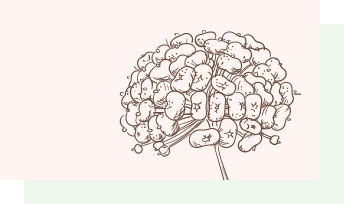
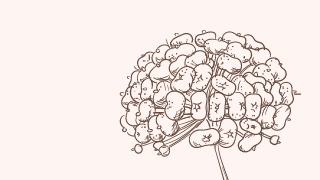
edits

Changed region(s): [[0.3438, 0.1389, 0.9375, 1.0]]

diff --git a/resources/assets/styles/components/composition.scss b/resources/assets/styles/components/composition.scss
@@ -1,7 +1,9 @@
 .composition {
+  overflow: hidden;
   padding-top: 100px;
   display: flex;
   justify-content: center;
+  padding-bottom: 20px;
   @media (max-width: 1199px) {
     justify-content: flex-start;
   }
@@ -9,8 +11,25 @@
     flex-wrap: wrap;
   }
   &__left {
-    img {
-      width: 100%;
+    .big-put {
+      width: 489px;
+      height: 384px;
+      @media (max-width: 991px) {
+        width: 458px;
+        height: 340px;
+      }
+      @media (max-width: 767px) {
+        width: 426px;
+        height: 300px;
+      }
+      @media (max-width: 575px) {
+        width: 245px;
+        height: 192px;
+      }
+      &:before {
+        top: 25px !important;
+        left: 25px !important;
+      }
     }
     @media (max-width: 767px) {
       margin-left: -60px;
@@ -29,6 +48,11 @@
     max-width: 331px;
     padding-top: 30px;
     z-index: 99;
+    @media (max-width: 350px) {
+      padding-right: 15px;
+      padding-left: 15px;
+      max-width: 100%;
+    }
   }
   &__mobile {
     display: none;
@@ -51,9 +75,11 @@
         position: relative;
         right: -55px;
       }
-      img {
-        @media (max-width: 375px) {
-          width: 100%;
+      .big-put {
+        width: 258px;
+        height: 154px;
+        &:before {
+          background: #eff8ed;
         }
       }
       &:before {
@@ -73,6 +99,7 @@
   }
   &__line {
     display: flex;
+    width: 100%;
   }
   &__right {
     display: flex;
@@ -103,6 +130,18 @@
       z-index: -12;
       left: -105px;
       top: -89px;
+    }
+    .big-put {
+      width: 344px;
+      height: 204px;
+      &:before {
+        content: "";
+        position: absolute;
+        width: 100%;
+        height: 100%;
+        background: #eff8ed;
+        z-index: -12;
+      }
     }
   }
   &__text {
